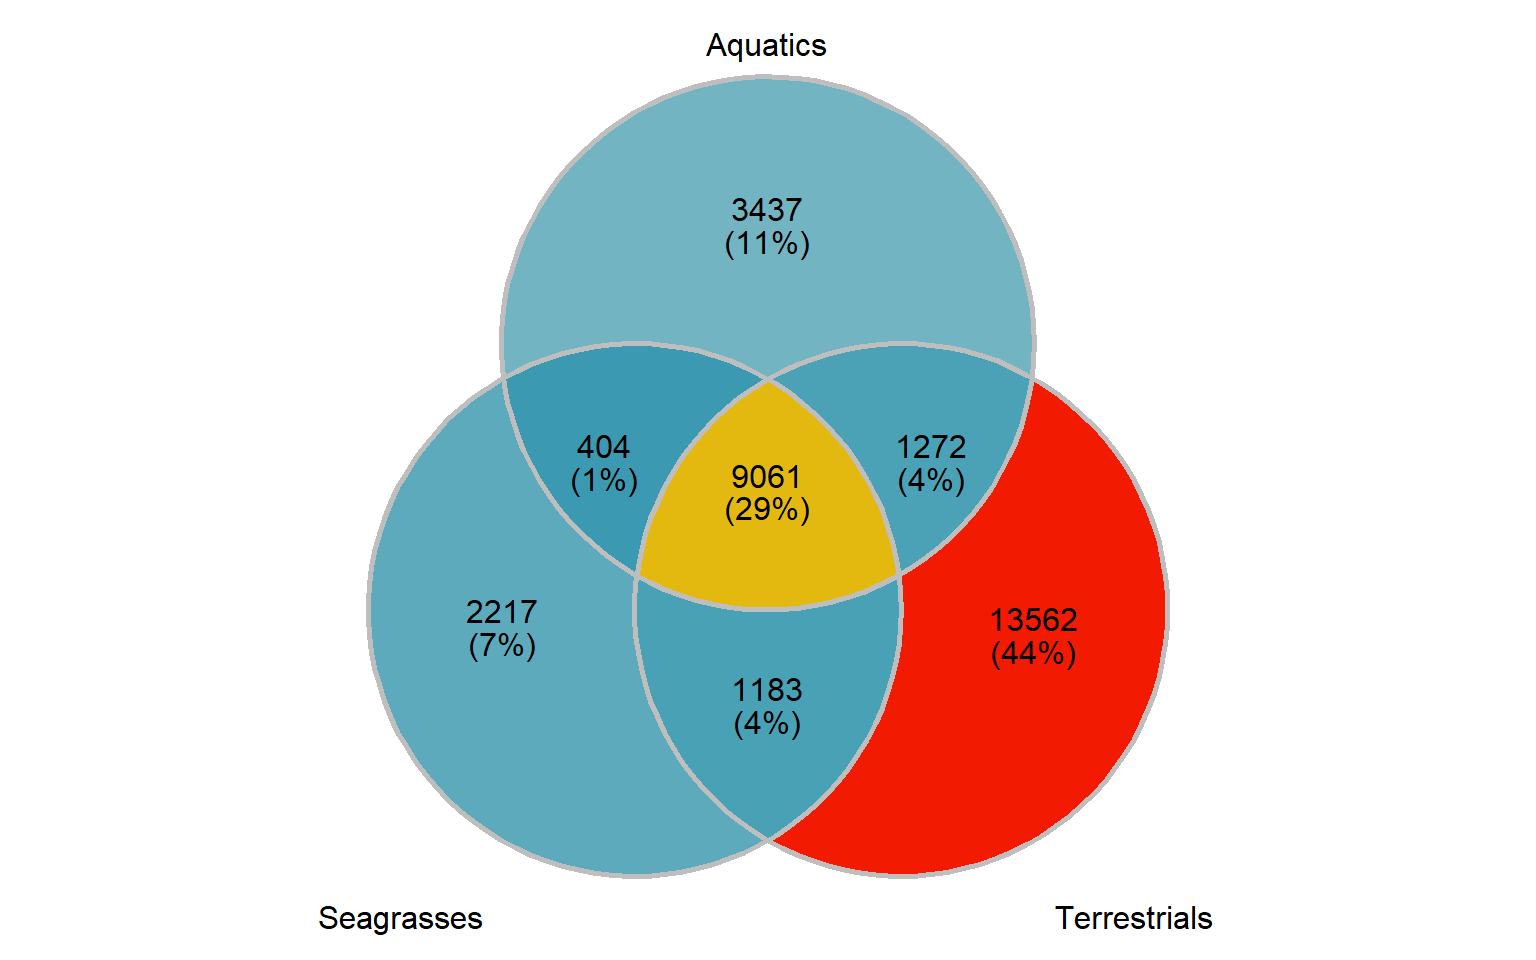
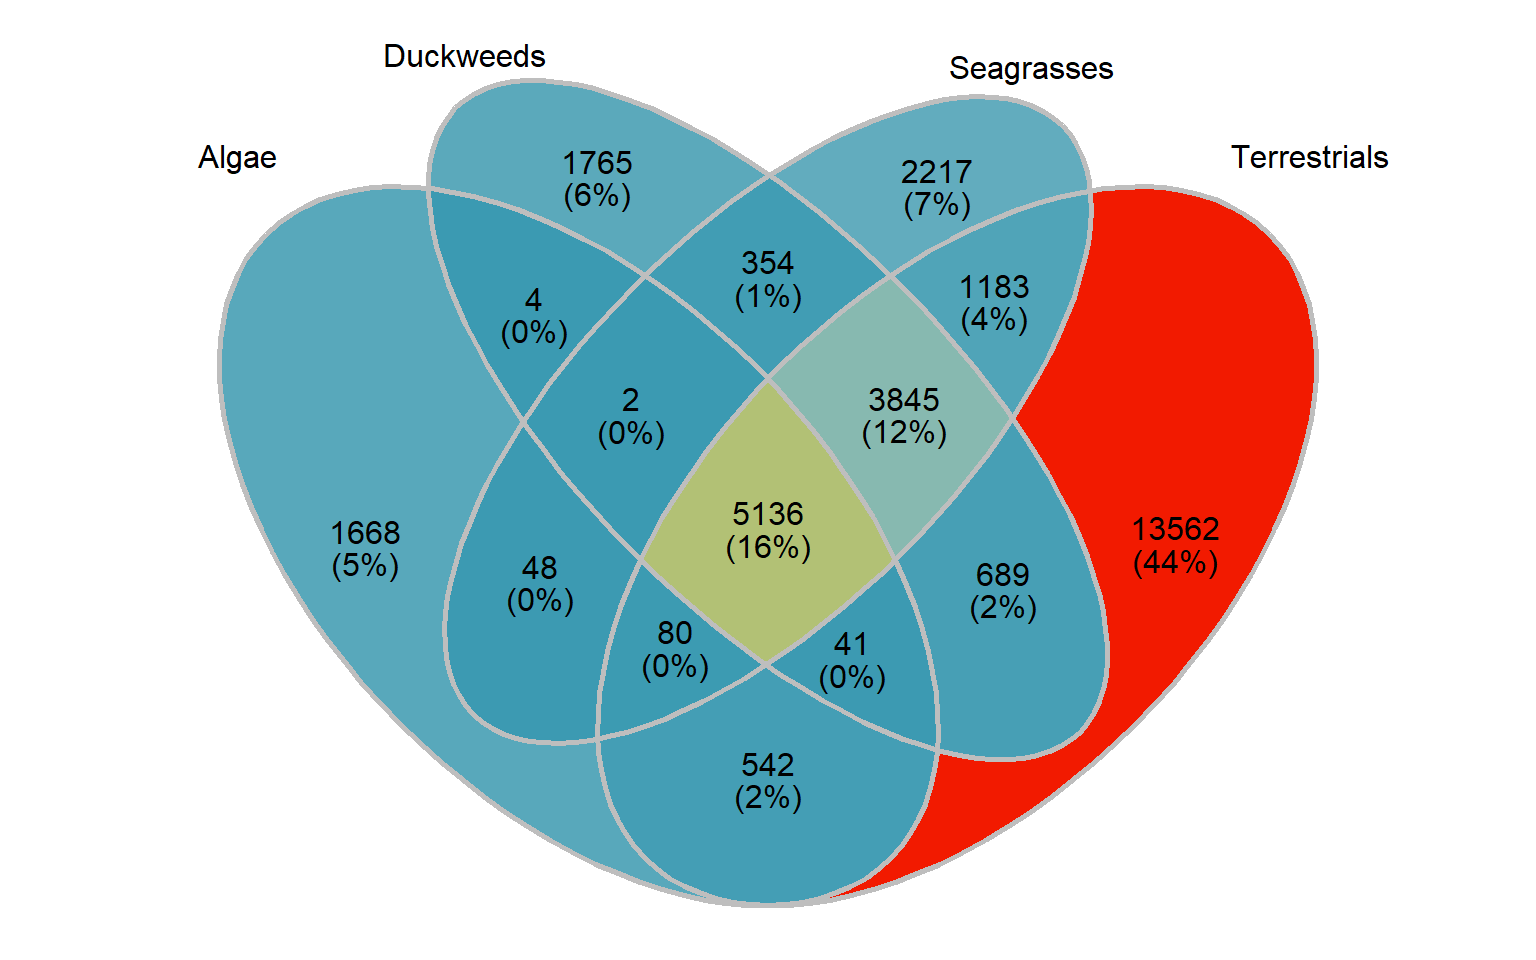
Build site.

diff --git a/docs/Orthofinder.html b/docs/Orthofinder.html
@@ -387,7 +387,7 @@ div.tocify {
 <div class="tab-content">
 <div id="summary" class="tab-pane fade in active">
 <p>
-<strong>Last updated:</strong> 2022-02-25
+<strong>Last updated:</strong> 2022-03-08
 </p>
 <p>
 <strong>Checks:</strong> <span class="glyphicon glyphicon-ok text-success" aria-hidden="true"></span> 7 <span class="glyphicon glyphicon-exclamation-sign text-danger" aria-hidden="true"></span> 0
@@ -478,16 +478,16 @@ This reproducible <a href="http://rmarkdown.rstudio.com">R Markdown</a> analysis
 <div class="panel panel-default">
 <div class="panel-heading">
 <p class="panel-title">
-<a data-toggle="collapse" data-parent="#workflowr-checks" href="#strongRepositoryversionstrongahrefhttpsgithubcomphilippbayerAmphibolisPosidoniaComparisontree5fa37b7aa8ee4ae02b145e616f82bebedefea69etargetblank5fa37b7a"> <span class="glyphicon glyphicon-ok text-success" aria-hidden="true"></span> <strong>Repository version:</strong> <a href="https://github.com/philippbayer/Amphibolis_Posidonia_Comparison/tree/5fa37b7aa8ee4ae02b145e616f82bebedefea69e" target="_blank">5fa37b7</a> </a>
+<a data-toggle="collapse" data-parent="#workflowr-checks" href="#strongRepositoryversionstrongahrefhttpsgithubcomphilippbayerAmphibolisPosidoniaComparisontree309567ac01c00d11b657cb12e0827fee71b4b241targetblank309567aa"> <span class="glyphicon glyphicon-ok text-success" aria-hidden="true"></span> <strong>Repository version:</strong> <a href="https://github.com/philippbayer/Amphibolis_Posidonia_Comparison/tree/309567ac01c00d11b657cb12e0827fee71b4b241" target="_blank">309567a</a> </a>
 </p>
 </div>
[2 lines of base64/hex data omitted]
 <div class="panel-body">
 <p>
 Great! You are using Git for version control. Tracking code development and connecting the code version to the results is critical for reproducibility.
 </p>
 <p>
-The results in this page were generated with repository version <a href="https://github.com/philippbayer/Amphibolis_Posidonia_Comparison/tree/5fa37b7aa8ee4ae02b145e616f82bebedefea69e" target="_blank">5fa37b7</a>. See the <em>Past versions</em> tab to see a history of the changes made to the R Markdown and HTML files.
+The results in this page were generated with repository version <a href="https://github.com/philippbayer/Amphibolis_Posidonia_Comparison/tree/309567ac01c00d11b657cb12e0827fee71b4b241" target="_blank">309567a</a>. See the <em>Past versions</em> tab to see a history of the changes made to the R Markdown and HTML files.
 </p>
 <p>
 Note that you need to be careful to ensure that all relevant files for the analysis have been committed to Git prior to generating the results (you can use <code>wflow_publish</code> or <code>wflow_git_commit</code>). workflowr only checks the R Markdown file, but you know if there are other scripts or data files that it depends on. Below is the status of the Git repository when the results were generated:
@@ -497,13 +497,18 @@ Ignored files:
     Ignored:    .Rhistory
     Ignored:    .Rproj.user/
     Ignored:    analysis/OTT.nb.html
+    Ignored:    analysis/figure/
     Ignored:    analysis/plotRgenes.nb.html
 
+Untracked files:
+    Untracked:  data/Lost_present_gene_lists/Genes_only_in_Algae.txt
+    Untracked:  data/Lost_present_gene_lists/Genes_only_in_Duckweeds.txt
+    Untracked:  output/group_venn_image.Rdata
+    Untracked:  output/seagrass_venn_image.Rdata
+
 Unstaged changes:
-    Modified:   data/Lost_present_gene_lists/Genes_lost_in_A_antarctica_not_other_seagrasses.txt
-    Modified:   data/Lost_present_gene_lists/Genes_lost_in_P_australis_not_other_seagrasses.txt
-    Modified:   data/Lost_present_gene_lists/Genes_lost_in_Z_marina_not_other_seagrasses.txt
-    Modified:   data/Lost_present_gene_lists/Genes_lost_in_Z_muelleri_not_other_seagrasses.txt
+    Modified:   data/Lost_present_gene_lists/Genes_only_in_Aquatics_and_Seagrasses.txt
+    Modified:   data/Lost_present_gene_lists/Genes_only_in_Aquatics_and_Seagrasses_and_Terrestrials.txt
     Modified:   data/arabidopsis_gene_level_comparison.xlsx
     Modified:   data/arabidopsis_gene_level_comparison_only_losts.xlsx
     Modified:   data/arabidopsis_gene_level_counts.xlsx
@@ -545,6 +550,40 @@ Message
 </tr>
 </thead>
 <tbody>
+<tr>
+<td>
+Rmd
+</td>
+<td>
+<a href="https://github.com/philippbayer/Amphibolis_Posidonia_Comparison/blob/309567ac01c00d11b657cb12e0827fee71b4b241/analysis/Orthofinder.Rmd" target="_blank">309567a</a>
+</td>
+<td>
+Philipp Bayer
+</td>
+<td>
+2022-03-08
+</td>
+<td>
+split aquatics up
+</td>
+</tr>
+<tr>
+<td>
+html
+</td>
+<td>
+<a href="https://rawcdn.githack.com/philippbayer/Amphibolis_Posidonia_Comparison/679f242b0ea240b5785bd2ce773fb0d664231395/docs/Orthofinder.html" target="_blank">679f242</a>
+</td>
+<td>
+Philipp Bayer
+</td>
+<td>
+2022-02-25
+</td>
+<td>
+Build site.
+</td>
+</tr>
 <tr>
 <td>
 Rmd
@@ -1287,13 +1326,20 @@ joined_counts %&gt;% writexl::write_xlsx(&#39;data/arabidopsis_gene_level_counts
       &#39;Z. mays&#39;
     ) ~ &#39;Terrestrials&#39;,
     name %in% c(
-      &#39;C. reinhardtii&#39;,
       &#39;L. gibba&#39;,
       &#39;S. polyrhiza&#39;,
-      &#39;O. lucimarinus&#39;,
       &#39;W. australis&#39;
-    ) ~ &#39;Aquatics&#39;,
-    name %in% c(&#39;P. australis&#39;, &#39;Z. muelleri&#39;, &#39;Z. marina&#39;, &#39;A. antarctica&#39;) ~ &#39;Seagrasses&#39;
+    ) ~ &#39;Duckweeds&#39;,
+    name %in% c(
+      &#39;C. reinhardtii&#39;,
+      &#39;O. lucimarinus&#39;
+    ) ~ &#39;Algae&#39;,
+    name %in% c(
+      &#39;P. australis&#39;,
+      &#39;Z. muelleri&#39;,
+      &#39;Z. marina&#39;,
+      &#39;A. antarctica&#39;
+      ) ~ &#39;Seagrasses&#39;
   )) </code></pre>
 <pre class="r"><code># now I want the data in this format:
 # listInput &lt;- list(one = c(1, 2, 3, 5, 7, 8, 11, 12, 13), two = c(1, 2, 4, 5, 
@@ -1306,9 +1352,9 @@ mylistgroup &lt;- lapply(mylistgroup, unique)</code></pre>
 <pre class="r"><code>xgroup &lt;- upset(fromList(mylistgroup), order.by=&#39;freq&#39;, nsets = length(groups) - 1)</code></pre>
 <pre class="r"><code>xgroup</code></pre>
 <p><img src="figure/Orthofinder.Rmd/unnamed-chunk-28-1.png" width="960" style="display: block; margin: auto;" /></p>
-<p>MUCH better. The biggest chunk of orthogroups is not in aquatics or seagrasses with 13562 orthogroups. 3437 orthogroups are unique to aquatics, but not in seagrasses - 1183 orthogroups are unique in seagrasses, but not in aquatics. 404 + 3437 + 2217 orthogroups are not in terrestrials.</p>
-<p>OK now we need to do the GOenrichment for those three groups.</p>
-<p>Let’s also make an Venn plot, we have only three groups:</p>
+<p>MUCH better. The biggest chunk of orthogroups is not in aquatics or seagrasses with 13562 orthogroups. 3845 orthogroups are in duckweeds, seagrasses, terrestrials, but not algae - 2217 orthogroups are unique in seagrasses.</p>
+<p>OK now we need to do the GOenrichment for those four groups.</p>
+<p>Let’s also make an Venn plot, we have only four groups:</p>
 <pre class="r"><code># code from https://github.com/gaospecial/ggVennDiagram/blob/4cb2aa13c7beae469f9b9836c5d4f94610bd872e/R/ggVennDiagram.R to customise
 venn &lt;- Venn(mylistgroup)
 data &lt;- process_data(venn)
@@ -1360,45 +1406,51 @@ group_venn</code></pre>
       &#39;Z. mays&#39;
     ) ~ &#39;Terrestrials&#39;,
     name %in% c(
-      &#39;C. reinhardtii&#39;,
       &#39;L. gibba&#39;,
       &#39;S. polyrhiza&#39;,
-      &#39;O. lucimarinus&#39;,
       &#39;W. australis&#39;
-    ) ~ &#39;Aquatics&#39;,
-    name %in% c(&#39;P. australis&#39;, &#39;Z. muelleri&#39;, &#39;Z. marina&#39;, &#39;A. antarctica&#39;) ~ &#39;Seagrasses&#39;
+    ) ~ &#39;Duckweeds&#39;,
+    name %in% c(
+      &#39;C. reinhardtii&#39;,
+      &#39;O. lucimarinus&#39;
+    ) ~ &#39;Algae&#39;,
+    name %in% c(
+      &#39;P. australis&#39;,
+      &#39;Z. muelleri&#39;, &#39;Z. marina&#39;, &#39;A. antarctica&#39;) ~ &#39;Seagrasses&#39;
   )) </code></pre>
 <p>mylistgroup now looks like this: key is Aquatics, Seagrasses, Terrestrials, values are OG00000, OG00001, OG00002 etc.</p>
-<pre class="r"><code>present_aquatics_only &lt;- setdiff(setdiff(mylistgroup$Aquatics, mylistgroup$Terrestrials), 
-                         mylistgroup$Seagrasses)
-present_seagrasses_only &lt;- setdiff(setdiff(mylistgroup$Seagrasses, mylistgroup$Aquatics), 
-                           mylistgroup$Terrestrials)
-present_terrestrials_only &lt;- setdiff(setdiff(mylistgroup$Terrestrials, mylistgroup$Aquatics),
-                             mylistgroup$Seagrasses)
-print(cbind(length(present_aquatics_only), length(present_seagrasses_only), length(present_terrestrials_only)))</code></pre>
-<pre><code>     [,1] [,2]  [,3]
-[1,] 3437 2217 13562</code></pre>
-<p>OK those numbers fit with the above Venn diagram. I now have three lists of orthogroup names.</p>
+<pre class="r"><code>present_algae_only &lt;- setdiff(setdiff(setdiff(mylistgroup$Algae, mylistgroup$Duckweeds), 
+                         mylistgroup$Seagrasses), mylistgroup$Terrestrials)
+present_seagrasses_only &lt;- setdiff(setdiff(setdiff(mylistgroup$Seagrasses, mylistgroup$Duckweeds),                            mylistgroup$Terrestrials), mylistgroup$Algae)
+present_terrestrials_only &lt;- setdiff(setdiff(setdiff(mylistgroup$Terrestrials, mylistgroup$Duckweeds), mylistgroup$Seagrasses), mylistgroup$Algae)
+present_duckweeds_only &lt;- setdiff(setdiff(setdiff(mylistgroup$Duckweeds, mylistgroup$Terrestrials), mylistgroup$Seagrasses), mylistgroup$Algae)
+
+print(cbind(length(present_algae_only), length(present_seagrasses_only), length(present_terrestrials_only), length(present_duckweeds_only)))</code></pre>
+<pre><code>     [,1] [,2]  [,3] [,4]
+[1,] 1668 2217 13562 1765</code></pre>
+<p>OK those numbers fit with the above Venn diagram. I now have four lists of orthogroup names.</p>
 <p>I also want the orthogroups present in aquatics + seagrasses, NOT terrestrials</p>
-<pre class="r"><code>present_seagrass_and_aquatics_only &lt;- setdiff(intersect(mylistgroup$Aquatics, mylistgroup$Seagrasses), 
+<pre class="r"><code>present_seagrass_and_aquatics_only &lt;- setdiff(intersect(intersect(mylistgroup$Duckweeds, mylistgroup$Seagrasses), mylistgroup$Algae),
         mylistgroup$Terrestrials)
 print(length(present_seagrass_and_aquatics_only))</code></pre>
-<pre><code>[1] 404</code></pre>
+<pre><code>[1] 2</code></pre>
 <p>That’s the tiny intersection of genes shared between aquatics and seagrasses, let’s also get the union of seagrass genes, aquatic genes, and their intersection</p>
-<pre class="r"><code>present_seagrass_and_aquatics_union &lt;- union(mylistgroup$Aquatics, mylistgroup$Seagrasses)
+<pre class="r"><code>present_seagrass_and_aquatics_union &lt;- union(mylistgroup$Algae, union(mylistgroup$Duckweeds, mylistgroup$Seagrasses))
 print(length(present_seagrass_and_aquatics_union))</code></pre>
 <pre><code>[1] 17574</code></pre>
 <p>OK let’s also get the intersection in the middle</p>
-<pre class="r"><code>present_all &lt;- intersect(intersect(mylistgroup$Terrestrials, mylistgroup$Aquatics), mylistgroup$Seagrasses)
+<pre class="r"><code>present_all &lt;- intersect(intersect(mylistgroup$Algae, intersect(mylistgroup$Terrestrials, mylistgroup$Duckweeds)), mylistgroup$Seagrasses)
 length(present_all)</code></pre>
-<pre><code>[1] 9061</code></pre>
+<pre><code>[1] 5136</code></pre>
 <p>Now we pull out these gene IDs and write them out for files to continue in <a href="GOenrichment.html">GOenrichment</a>.</p>
 <pre class="r"><code># gene_per_spec has the genes per orthogroup, we need to join with the various set-results we&#39;ve made
 genes_in_all &lt;- gene_per_spec %&gt;% filter(Orthogroup %in% present_all) %&gt;% separate_rows(value, sep=&#39;,&#39;) %&gt;% pull(value) %&gt;% str_trim()
 genes_only_in_aquatics_and_seagrasses &lt;- gene_per_spec %&gt;% filter(Orthogroup %in% present_seagrass_and_aquatics_only) %&gt;% separate_rows(value, sep=&#39;,&#39;) %&gt;% pull(value) %&gt;% str_trim()
+
 genes_present_seagrass_and_aquatics_union &lt;- gene_per_spec %&gt;% filter(Orthogroup %in% present_seagrass_and_aquatics_union) %&gt;% separate_rows(value, sep=&#39;,&#39;) %&gt;% pull(value) %&gt;% str_trim()
 
-genes_only_in_aquatics &lt;- gene_per_spec %&gt;% filter(Orthogroup %in% present_aquatics_only) %&gt;% separate_rows(value, sep=&#39;,&#39;) %&gt;% pull(value) %&gt;% str_trim()
+genes_only_in_duckweeds &lt;- gene_per_spec %&gt;% filter(Orthogroup %in% present_duckweeds_only) %&gt;% separate_rows(value, sep=&#39;,&#39;) %&gt;% pull(value) %&gt;% str_trim()
+genes_only_in_algae &lt;- gene_per_spec %&gt;% filter(Orthogroup %in% present_algae_only) %&gt;% separate_rows(value, sep=&#39;,&#39;) %&gt;% pull(value) %&gt;% str_trim()
 genes_only_in_seagrasses &lt;- gene_per_spec %&gt;% filter(Orthogroup %in% present_seagrasses_only) %&gt;% separate_rows(value, sep=&#39;,&#39;) %&gt;% pull(value) %&gt;% str_trim()
 genes_only_in_terrestrials &lt;- gene_per_spec %&gt;% filter(Orthogroup %in% present_terrestrials_only) %&gt;% separate_rows(value, sep=&#39;,&#39;) %&gt;% pull(value) %&gt;% str_trim()</code></pre>
 <p>Now we have a bunch of lists, we can write them into files for the <a href="GOenrichment.html">GO enrichment part</a></p>
@@ -1410,9 +1462,14 @@ fileConn&lt;-file(&#39;data/Lost_present_gene_lists/Genes_only_in_Seagrasses.txt
 writeLines(genes_only_in_seagrasses, fileConn)
 close(fileConn)
 
-fileConn&lt;-file(&#39;data/Lost_present_gene_lists/Genes_only_in_Aquatics.txt&#39;)
-writeLines(genes_only_in_aquatics, fileConn)
+fileConn&lt;-file(&#39;data/Lost_present_gene_lists/Genes_only_in_Duckweeds.txt&#39;)
+writeLines(genes_only_in_duckweeds, fileConn)
 close(fileConn)
+
+fileConn&lt;-file(&#39;data/Lost_present_gene_lists/Genes_only_in_Algae.txt&#39;)
+writeLines(genes_only_in_algae, fileConn)
+close(fileConn)
+
 
 fileConn&lt;-file(&#39;data/Lost_present_gene_lists/Genes_only_in_Aquatics_and_Seagrasses.txt&#39;)
 writeLines(genes_only_in_aquatics_and_seagrasses, fileConn)
@@ -1467,9 +1524,16 @@ seagrass_venn &lt;- ggplot() +
   theme(legend.position = &quot;none&quot;) + 
   scale_x_continuous(expand = expansion(mult = .2)) #trick from https://github.com/gaospecial/ggVennDiagram/blob/9435aa0ab4abb470c670ecb938c71576461ccedc/vignettes/using-ggVennDiagram.Rmd#L65
 seagrass_venn</code></pre>
-<p><img src="figure/Orthofinder.Rmd/unnamed-chunk-39-1.png" width="768" style="display: block; margin: auto;" /> # Both Venns together</p>
+<p><img src="figure/Orthofinder.Rmd/unnamed-chunk-39-1.png" width="768" style="display: block; margin: auto;" /></p>
+</div>
+</div>
+<div id="both-venns-together" class="section level1">
+<h1>Both Venns together</h1>
+<p>Let’s save both Venns so I can combine them with other plots in other Rmds.</p>
+<pre class="r"><code>save(group_venn, file=&#39;output/group_venn_image.Rdata&#39;)
+save(seagrass_venn, file=&#39;output/seagrass_venn_image.Rdata&#39;)</code></pre>
 <pre class="r"><code>group_venn / seagrass_venn +  plot_annotation(tag_levels = &#39;A&#39;)</code></pre>
-<p><img src="figure/Orthofinder.Rmd/unnamed-chunk-40-1.png" width="768" style="display: block; margin: auto;" /></p>
+<p><img src="figure/Orthofinder.Rmd/unnamed-chunk-41-1.png" width="768" style="display: block; margin: auto;" /></p>
 <p>OK now as above, we dig out the gene names.</p>
 <pre class="r"><code># gene_per_spec has the genes per orthogroup, we need to join with the various set-results we&#39;ve made
 groups_only_in_A_antarctica &lt;- setdiff(setdiff(setdiff(big_list[[&#39;A. antarctica&#39;]], big_list[[&#39;P. australis&#39;]]), big_list[[&#39;Z. marina&#39;]]), big_list[[&#39;Z. muelleri&#39;]])
@@ -1597,7 +1661,6 @@ loaded via a namespace (and not attached):
 [73] assertthat_0.2.1   xfun_0.27          broom_0.7.9        e1071_1.7-9       
 [77] later_1.3.0        class_7.3-19       RVenn_1.1.0        viridisLite_0.4.0 
 [81] units_0.7-2        writexl_1.4.0      ellipsis_0.3.2    </code></pre>
-</div>
 </div>
 </div>
 
